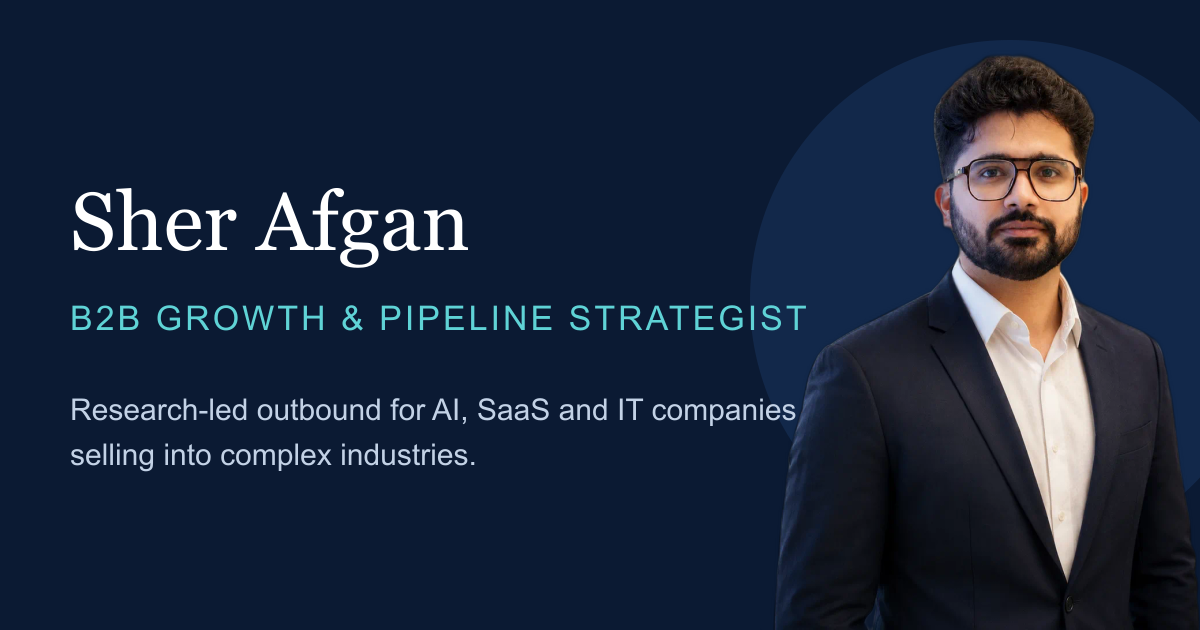
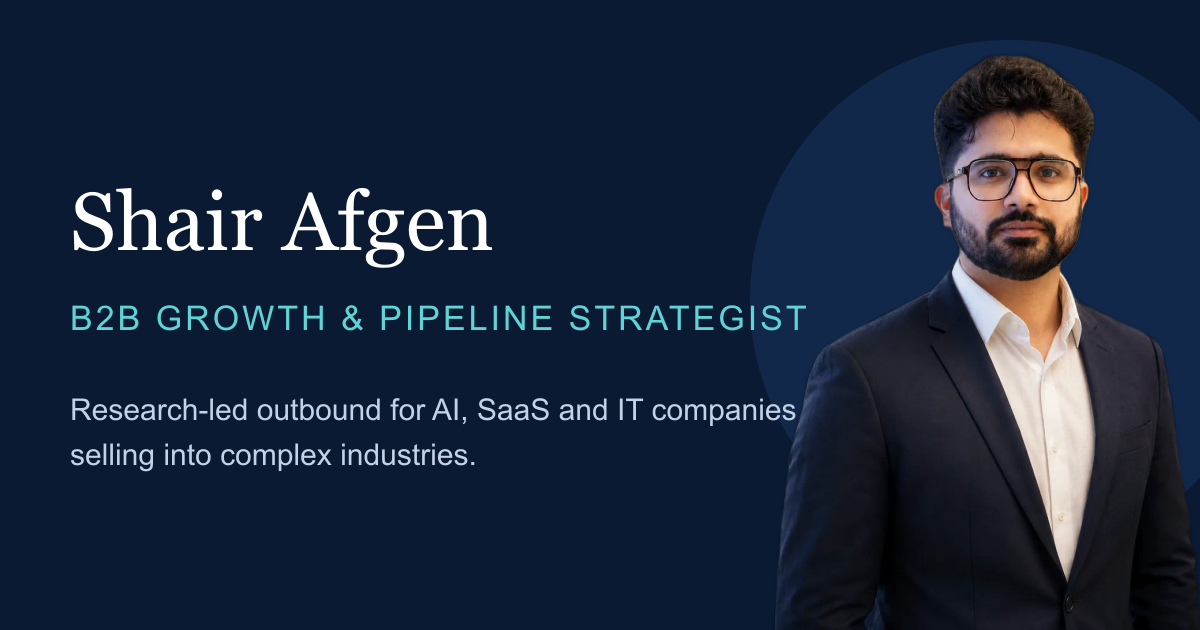
Use the name Shair Afgen across the site

Changed region(s): [[0.1233, 0.3016, 0.4317, 0.4222]]

diff --git a/index.html b/index.html
@@ -11,12 +11,12 @@
         document.documentElement.dataset.theme = t;
       } catch (e) {}
     </script>
-    <title>Sher Afgan | B2B Lead Generation and Pipeline Strategist</title>
-    <meta name="description" content="Sher Afgan helps AI, SaaS and IT companies reach hard-to-reach B2B buyers and build qualified pipeline through research-led LinkedIn and email outreach." />
+    <title>Shair Afgen | B2B Lead Generation and Pipeline Strategist</title>
+    <meta name="description" content="Shair Afgen helps AI, SaaS and IT companies reach hard-to-reach B2B buyers and build qualified pipeline through research-led LinkedIn and email outreach." />
     <link rel="canonical" href="__SITE_URL__/" />
     <meta property="og:type" content="website" />
-    <meta property="og:site_name" content="Sher Afgan" />
-    <meta property="og:title" content="Sher Afgan | B2B Lead Generation and Pipeline Strategist" />
+    <meta property="og:site_name" content="Shair Afgen" />
+    <meta property="og:title" content="Shair Afgen | B2B Lead Generation and Pipeline Strategist" />
     <meta property="og:description" content="Research-led outbound for AI, SaaS and IT companies selling into complex industries." />
     <meta property="og:url" content="__SITE_URL__/" />
     <meta property="og:image" content="__SITE_URL__/og-image.png" />

diff --git a/src/pages/Home.tsx b/src/pages/Home.tsx
@@ -206,11 +206,11 @@ export function Home() {
         <div className="container about-teaser">
           <Reveal>
             <div className="portrait-card">
-              <img src={portrait480} width="480" height="640" loading="lazy" alt="Portrait of Sher Afgan" />
+              <img src={portrait480} width="480" height="640" loading="lazy" alt="Portrait of Shair Afgen" />
             </div>
           </Reveal>
           <Reveal>
-            <p className="eyebrow">About Sher Afgan</p>
+            <p className="eyebrow">About Shair Afgen</p>
             <h2 id="about-title">I treat outbound like a research discipline, <em>not a numbers game.</em></h2>
             <p>
               For five years I have run outbound for AI, SaaS and software companies selling into the US, Canada and the UK.

diff --git a/src/components/Hero.tsx b/src/components/Hero.tsx
@@ -103,7 +103,7 @@ export function Hero() {
             sizes="(max-width: 900px) 70vw, 380px"
             width="780"
             height="1040"
-            alt="Sher Afgan, B2B growth and pipeline strategist, in a dark suit and white shirt"
+            alt="Shair Afgen, B2B growth and pipeline strategist, in a dark suit and white shirt"
             fetchPriority="high"
           />
           <div className="chip chip-journey" aria-hidden="true">
@@ -126,7 +126,7 @@ export function Hero() {
           </div>
           <div className="chip chip-dark">
             <span>
-              <strong>Sher Afgan</strong>
+              <strong>Shair Afgen</strong>
               <small>Lahore · US · Canada · UK</small>
             </span>
           </div>

diff --git a/src/data/site.ts b/src/data/site.ts
@@ -1,9 +1,8 @@
 // Central site configuration. Every value marked TODO needs confirming before launch.
 export const site = {
-  name: "Sher Afgan",
+  name: "Shair Afgen",
   title: "B2B Growth & Pipeline Strategist",
   location: "Lahore, Pakistan",
-  // TODO: portfolio PDF lists this address under the spelling "Shair Afgen". Confirm it is correct.
   email: "shairafgen9@gmail.com",
   bookingUrl: "https://cal.com/shair-afgen-pb0z87/30min",
   // TODO: add the LinkedIn profile URL. While empty, no LinkedIn link is shown.

diff --git a/src/data/testimonials.ts b/src/data/testimonials.ts
@@ -9,7 +9,7 @@ export interface Testimonial {
 export const testimonials: Testimonial[] = [
   {
     quote:
-      "Sher researched our buyers before sending a single message. The replies we got were from people who actually owned the problem.",
+      "Shair researched our buyers before sending a single message. The replies we got were from people who actually owned the problem.",
     role: "Head of Growth",
     company: "B2B SaaS company",
     placeholder: true,

diff --git a/src/pages/NotFound.tsx b/src/pages/NotFound.tsx
@@ -4,7 +4,7 @@ import { ButtonLink } from "../components/Buttons";
 export function NotFound() {
   return (
     <section className="page-hero">
-      <Seo title="Page not found | Sher Afgan" description="This page does not exist." path="/" />
+      <Seo title="Page not found | Shair Afgen" description="This page does not exist." path="/" />
       <div className="container">
         <p className="eyebrow">404</p>
         <h1>That page does not exist.</h1>

diff --git a/src/pages/CaseStudy.tsx b/src/pages/CaseStudy.tsx
@@ -40,7 +40,7 @@ export function CaseStudy() {
 
   return (
     <>
-      <Seo title={`${c.title} | Sher Afgan`} description={c.metaDescription} path={`/case-studies/${c.slug}/`} />
+      <Seo title={`${c.title} | Shair Afgen`} description={c.metaDescription} path={`/case-studies/${c.slug}/`} />
       <ReadProgress />
 
       <section className={`case-hero grid-canvas dir-${c.direction}`}>

diff --git a/src/pages/About.tsx b/src/pages/About.tsx
@@ -38,7 +38,7 @@ export function About() {
               sizes="(max-width: 900px) 70vw, 380px"
               width="780"
               height="1040"
-              alt="Sher Afgan, B2B growth and pipeline strategist"
+              alt="Shair Afgen, B2B growth and pipeline strategist"
             />
           </div>
         </div>

diff --git a/docs/image-credits.md b/docs/image-credits.md
@@ -1,6 +1,6 @@
 # Image credits
 
-Stock photographs are from Pexels, used under the Pexels licence (free to use, attribution not required). They appear on the site with a navy and teal wash and are labelled "Stock photograph. Not a client image." on case pages. The portrait of Sher Afgan comes from the portfolio PDF.
+Stock photographs are from Pexels, used under the Pexels licence (free to use, attribution not required). They appear on the site with a navy and teal wash and are labelled "Stock photograph. Not a client image." on case pages. The portrait of Shair Afgen comes from the portfolio PDF.
 
 | Use | Pexels photo ID |
 |---|---|

diff --git a/docs/strategy-and-design.md b/docs/strategy-and-design.md
@@ -2,7 +2,7 @@
 
 ## Positioning
 
-**Who:** Sher Afgan, B2B Growth & Pipeline Strategist, an individual specialist rather than an agency.
+**Who:** Shair Afgen, B2B Growth & Pipeline Strategist, an individual specialist rather than an agency.
 **Ideal client:** founders and sales leaders at AI, SaaS and IT companies selling into complex industries, plus industry companies selling their own services.
 **Goal of the site:** turn a visit into a strategy-call enquiry.
 **Journey:** Home (promise and proof) then Case Studies (evidence) then Services (offer) then Contact. Every page ends with the same CTA.

diff --git a/README.md b/README.md
@@ -1,4 +1,4 @@
-# Sher Afgan, B2B Growth & Pipeline Strategist
+# Shair Afgen, B2B Growth & Pipeline Strategist
 
 Portfolio website built with Vite, React and TypeScript. Styles are plain CSS with tokens. Fonts are self-hosted.
 
